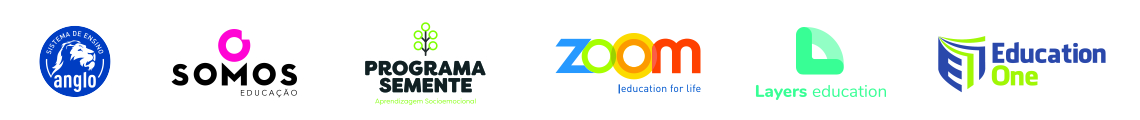
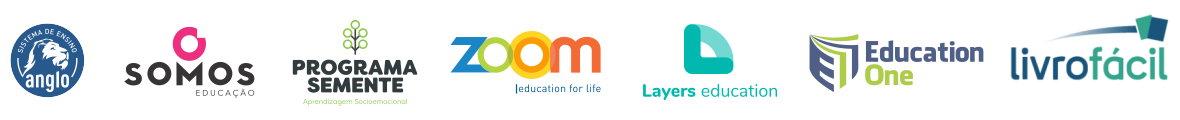
bannes

Changed region(s): [[0.0, 0.125, 1.0, 0.825], [0.2763, 0.175, 0.3377, 0.425], [0.2456, 0.825, 0.4298, 0.875]]

diff --git a/index.html b/index.html
@@ -58,7 +58,7 @@ permalink: /
 <!--<center><a href="http://maratonaenem.com.br/"><img src="/img/banner1.jpg"></a></center><br>-->
 
 
-
+<center><a href="https://www.livrofacil.net/school/student?school=1001281&sc=3&utm_campaign=null&utmi_cp=ed337e4e173441e6810742865d433c25" target="_blank"><img src="/img/livro.png"></a></center><br>
 <div class="container">
 
 
